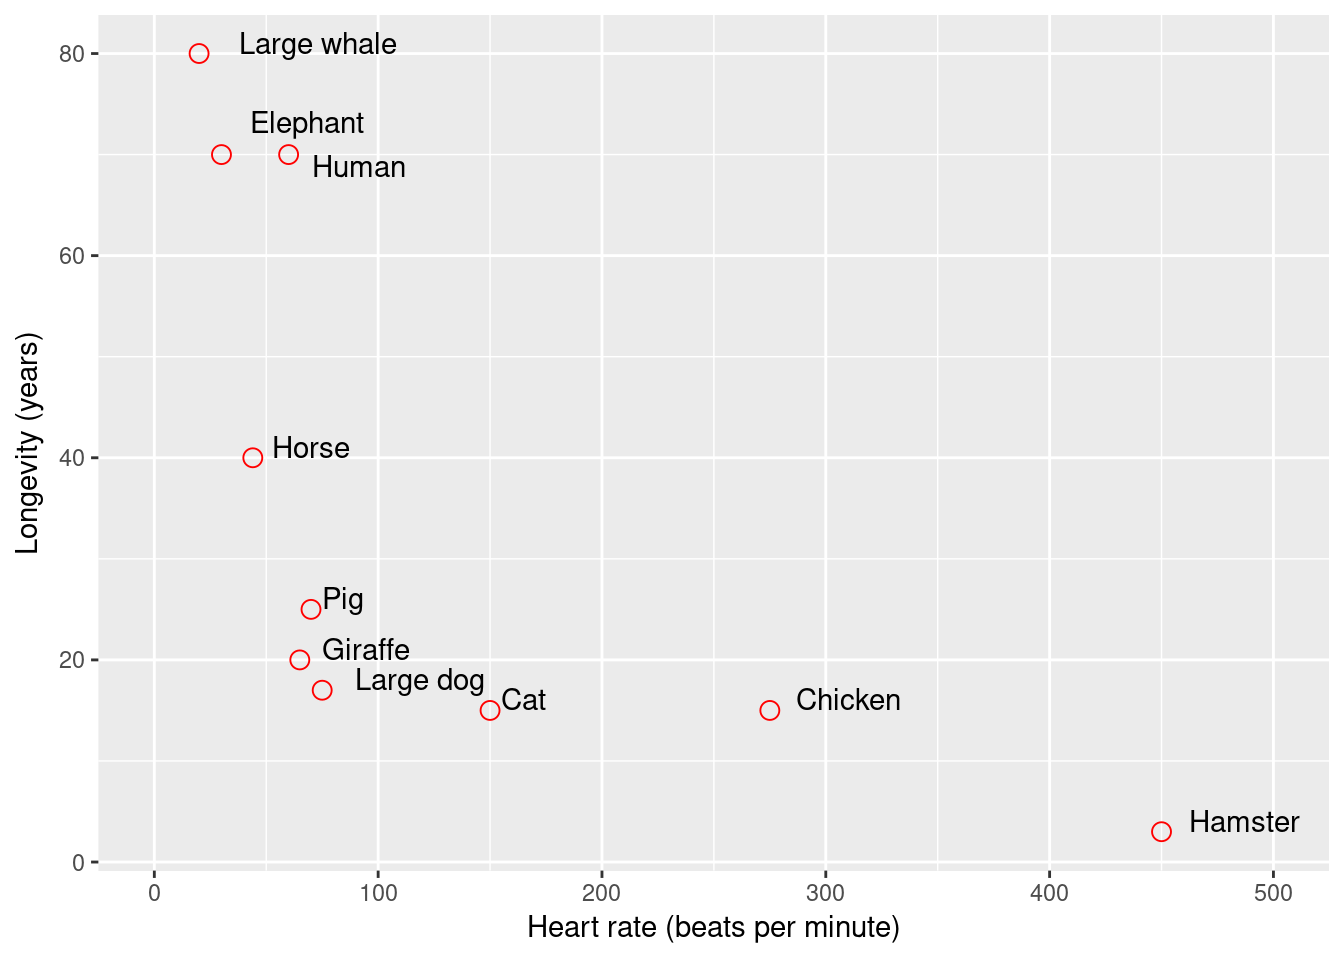
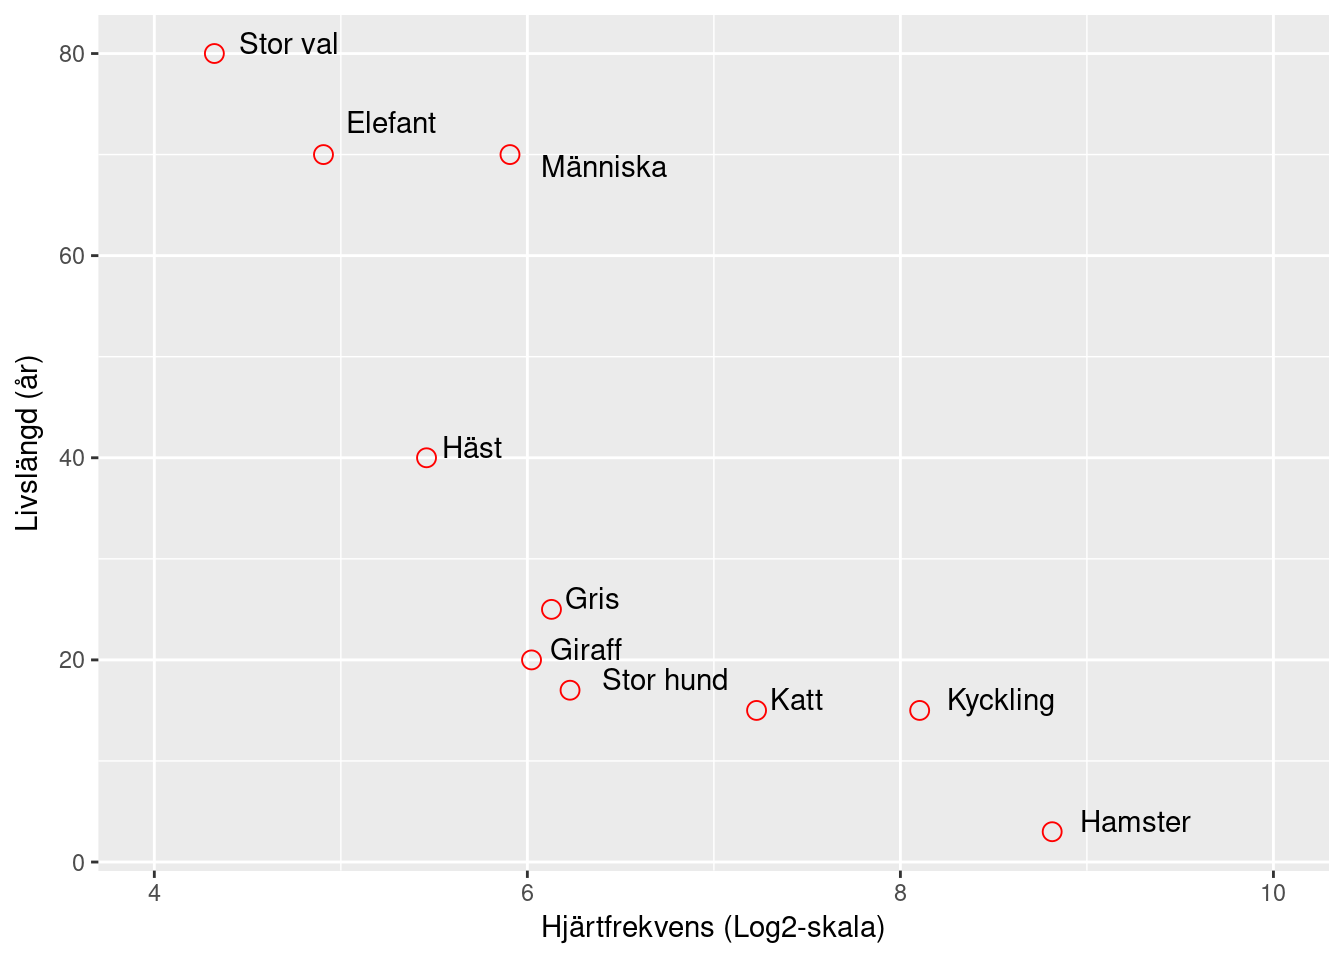
översättning heartbeats figur

diff --git a/public/post/science_ontology_scale/index.html b/public/post/science_ontology_scale/index.html
@@ -190,7 +190,8 @@ En utgångspunkt för biologisk skala är den statistiska mekaniken. För att bi
 <div id="sambandet-mellan-hjartfrekvens-och-livslangd" class="section level1">
 <h1>Sambandet mellan hjärtfrekvens och livslängd</h1>
 <p>I boken “Scale” tas korrelationen mellan hjärtfrekvens och livslängd upp, vilket kan illustreras med följande figur:</p>
-<p><img src="/post/science_ontology_scale_files/figure-html/heartbeats-1.png" width="672" /> <strong>Figure</strong>: Heart Rate and longevity in mammals.</p>
+<p><img src="/post/science_ontology_scale_files/figure-html/heartbeats-1.png" width="672" /> <strong>Figur</strong>: Hjärtfrekvens och livstid hos däggdjur. X-axeln är i Log2-skala, vilket innebär att en enhets skillnad motsvarar en fördubbling av hjärtfrekvensen. En människa har hjärtfrekvens 60 slag/minut och en hamster 450 slag/minut.</p>
+<p>Vi ser att människan har en något längre livslängd än vad som skulle förutsägas av vår medelhjärtfrekvens.</p>
 <p>Data för figuren kommer från <a href="http://www.sjsu.edu/faculty/watkins/longevity.htm">Thayer Watkins vid San José State University</a>, som också skriver: <em>A useful line of analysis is to consider the effect of scale changes for creatures which are similar in shape and only differ in scale. As the scale of an animal increases the body weight and volume increase with the cube of scale. The volume of blood flow required to feed that bulk also increases with the cube of scale. The cross sectional area of the arteries and the veins required to carry that blood flow only increases with the square of scale. There are other area-volume relationships which impose limitations on creatures.</em></p>
 </div>
 

diff --git a/content/post/science_ontology_scale.html b/content/post/science_ontology_scale.html
@@ -31,6 +31,7 @@ tags: ["Ontologi", "Vetenskap", "Podcast", "Media"]
 <div id="sambandet-mellan-hjartfrekvens-och-livslangd" class="section level1">
 <h1>Sambandet mellan hjärtfrekvens och livslängd</h1>
 <p>I boken “Scale” tas korrelationen mellan hjärtfrekvens och livslängd upp, vilket kan illustreras med följande figur:</p>
-<p><img src="/post/science_ontology_scale_files/figure-html/heartbeats-1.png" width="672" /> <strong>Figure</strong>: Heart Rate and longevity in mammals.</p>
+<p><img src="/post/science_ontology_scale_files/figure-html/heartbeats-1.png" width="672" /> <strong>Figur</strong>: Hjärtfrekvens och livstid hos däggdjur. X-axeln är i Log2-skala, vilket innebär att en enhets skillnad motsvarar en fördubbling av hjärtfrekvensen. En människa har hjärtfrekvens 60 slag/minut och en hamster 450 slag/minut.</p>
+<p>Vi ser att människan har en något längre livslängd än vad som skulle förutsägas av vår medelhjärtfrekvens.</p>
 <p>Data för figuren kommer från <a href="http://www.sjsu.edu/faculty/watkins/longevity.htm">Thayer Watkins vid San José State University</a>, som också skriver: <em>A useful line of analysis is to consider the effect of scale changes for creatures which are similar in shape and only differ in scale. As the scale of an animal increases the body weight and volume increase with the cube of scale. The volume of blood flow required to feed that bulk also increases with the cube of scale. The cross sectional area of the arteries and the veins required to carry that blood flow only increases with the square of scale. There are other area-volume relationships which impose limitations on creatures.</em></p>
 </div>
